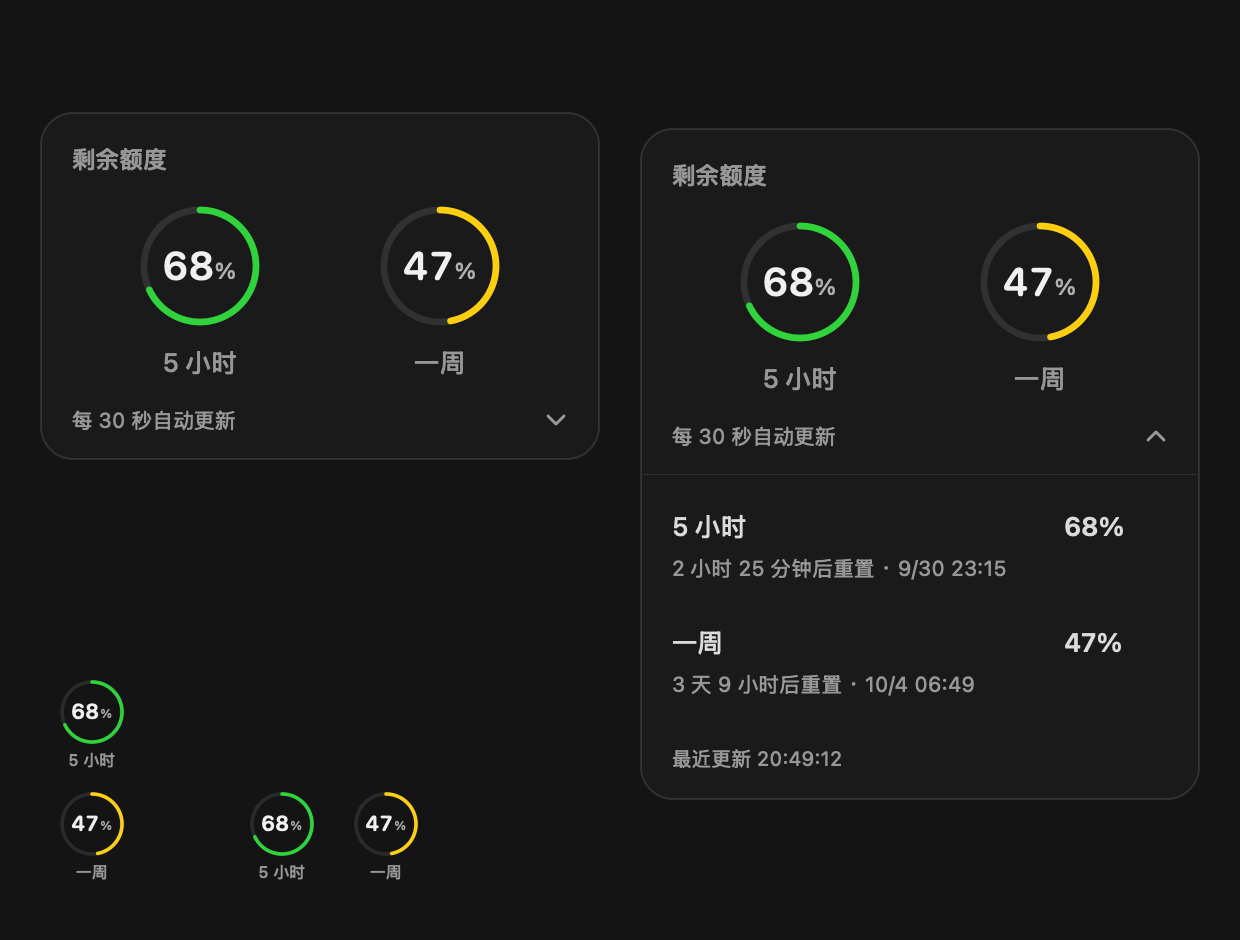
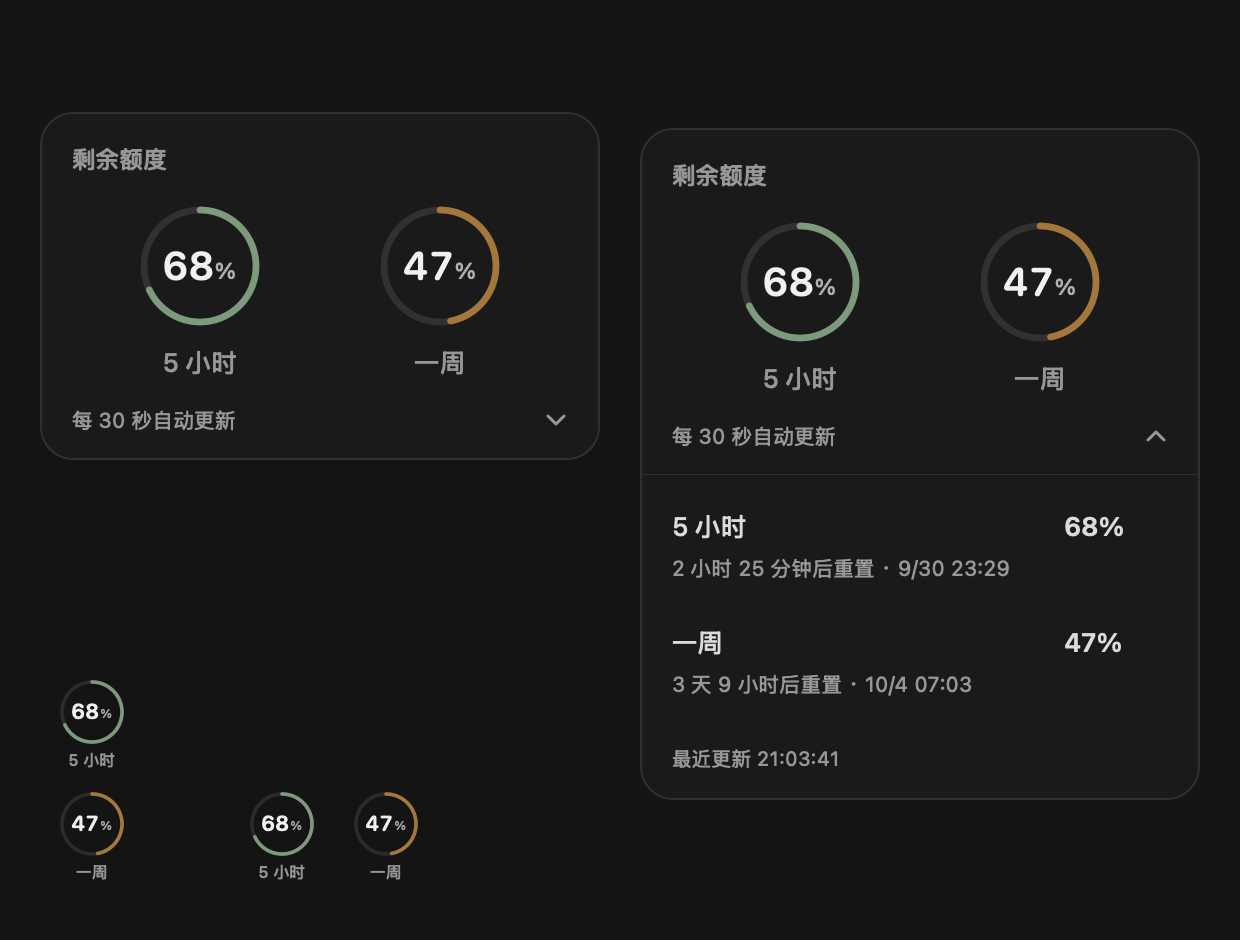
style: soften quota rings with a coordinated earthy palette

diff --git a/Sources/QuotaView.swift b/Sources/QuotaView.swift
@@ -3,9 +3,9 @@ import AppKit
 extension QuotaLevel {
     var color: NSColor {
         switch self {
-        case .ample: return .systemGreen
-        case .caution: return .systemYellow
-        case .low: return .systemRed
+        case .ample: return NSColor(srgbRed: 143/255, green: 169/255, blue: 144/255, alpha: 1)
+        case .caution: return NSColor(srgbRed: 180/255, green: 138/255, blue: 74/255, alpha: 1)
+        case .low: return NSColor(srgbRed: 189/255, green: 122/255, blue: 112/255, alpha: 1)
         case .unknown: return NSColor(white: 0.42, alpha: 1)
         }
     }
@@ -109,7 +109,7 @@ class QuotaView: NSView {
         ring(snapshot?.fiveHour, at: CGPoint(x: smallLayout == .vertical ? bounds.midX : 26, y: 30), title: "5 小时")
         ring(snapshot?.week, at: CGPoint(x: smallLayout == .vertical ? bounds.midX : 78, y: smallLayout == .vertical ? 86 : 30), title: "一周")
         if connectionError != nil || snapshot?.isStale() == true {
-            NSColor.systemOrange.setFill()
+            QuotaLevel.caution.color.setFill()
             NSBezierPath(ovalIn: NSRect(x: bounds.midX-1.5, y: bounds.maxY-5, width: 3, height: 3)).fill()
         }
     }

diff --git a/Sources/LargeQuotaView.swift b/Sources/LargeQuotaView.swift
@@ -15,7 +15,7 @@ final class LargeQuotaView: QuotaView {
         ring(snapshot?.week, at: CGPoint(x: 200, y: 77), title: "一周", radius: 28)
         let stale = connectionError != nil || snapshot?.isStale() == true
         if stale {
-            NSColor.systemOrange.withAlphaComponent(0.7).setFill()
+            QuotaLevel.caution.color.withAlphaComponent(0.7).setFill()
             NSBezierPath(ovalIn: NSRect(x: 258, y: 21, width: 5, height: 5)).fill()
         }
         let status = connectionError != nil ? "连接中断 · 自动重试" : snapshot == nil ? "正在读取额度…" : stale ? "数据可能已过期" : "每 30 秒自动更新"

diff --git a/README.md b/README.md
@@ -10,7 +10,7 @@
 - **小组件**：横向或竖向双环，点击弹出详情；再次点击或点击外部关闭。
 - **显示范围**：默认聚焦 Codex 时显示；也可选择一直显示、聚焦桌面时显示。
 - **自动更新**：每 30 秒读取，并接收本地 app-server 的额度更新通知。
-- **剩余额度颜色**：大于 50% 绿色，20–50% 黄色，低于 20% 红色。过期或断连显示灰色并标注状态。
+- **剩余额度颜色**：大于 50% 鼠尾草绿（`#8FA990`），20–50% 金棕色（`#B48A4A`），低于 20% 陶土红（`#BD7A70`）。过期或断连显示灰色并标注状态。
 - 右键组件或点击菜单栏圆环图标更改设置；拖动组件改变位置。尺寸、方向、显示范围和各布局位置分别保存。
 
 ## 环境要求
